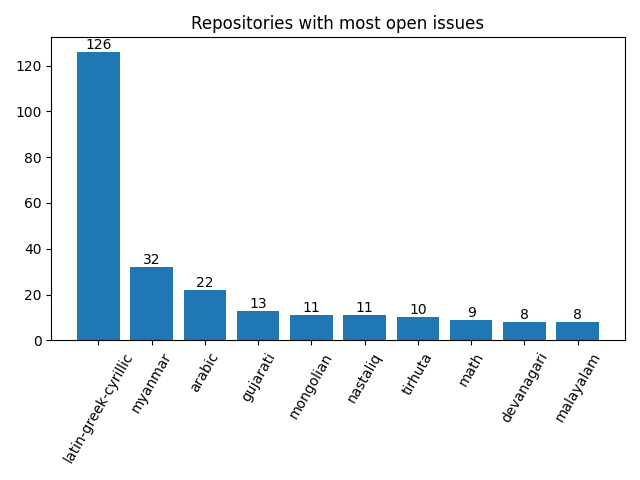
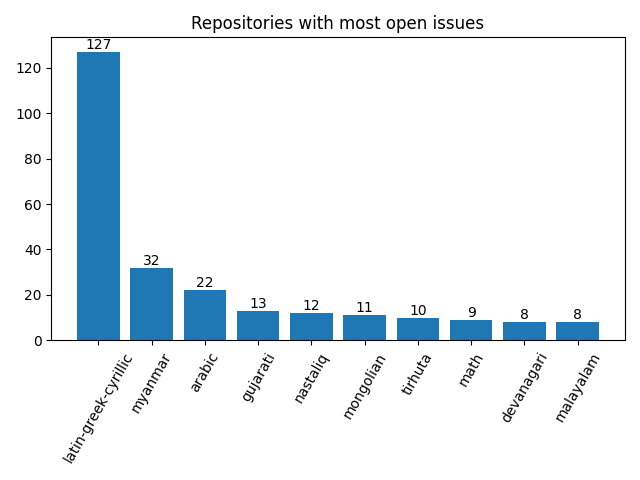
Apply automatic changes

diff --git a/docs/analytics.html b/docs/analytics.html
@@ -104,8 +104,8 @@ td .material-icons { display:inline-flex; vertical-align: top; font-size:1.1rem;
 						</tr>
 						<tr>
 							<td>Aug</td>
-							<td>9</td>
-							<td>15</td>
+							<td>13</td>
+							<td>17</td>
 						</tr>
 					</table>
 				</div>
@@ -125,7 +125,7 @@ td .material-icons { display:inline-flex; vertical-align: top; font-size:1.1rem;
 							<td>
 								<a href="http://github.com/notofonts/latin-greek-cyrillic/issues">latin-greek-cyrillic</a>
 							</td>
-							<td>126</td>
+							<td>127</td>
 						</tr>
 						<tr>
 							<td>
@@ -147,13 +147,13 @@ td .material-icons { display:inline-flex; vertical-align: top; font-size:1.1rem;
 						</tr>
 						<tr>
 							<td>
-								<a href="http://github.com/notofonts/mongolian/issues">mongolian</a>
+								<a href="http://github.com/notofonts/nastaliq/issues">nastaliq</a>
 							</td>
-							<td>11</td>
+							<td>12</td>
 						</tr>
 						<tr>
 							<td>
-								<a href="http://github.com/notofonts/nastaliq/issues">nastaliq</a>
+								<a href="http://github.com/notofonts/mongolian/issues">mongolian</a>
 							</td>
 							<td>11</td>
 						</tr>
@@ -265,13 +265,13 @@ td .material-icons { display:inline-flex; vertical-align: top; font-size:1.1rem;
 						<tr>
 							<td>1</td>
 							<td>
-									<a href="http://github.com/notofonts/latin-greek-cyrillic/issues">latin-greek-cyrillic</a>: 126, 
+									<a href="http://github.com/notofonts/latin-greek-cyrillic/issues">latin-greek-cyrillic</a>: 127, 
 
 									<a href="http://github.com/notofonts/arabic/issues">arabic</a>: 22, 
 
 									<a href="http://github.com/notofonts/gujarati/issues">gujarati</a>: 13, 
 
-									<a href="http://github.com/notofonts/nastaliq/issues">nastaliq</a>: 11, 
+									<a href="http://github.com/notofonts/nastaliq/issues">nastaliq</a>: 12, 
 
 									<a href="http://github.com/notofonts/devanagari/issues">devanagari</a>: 8, 
 
